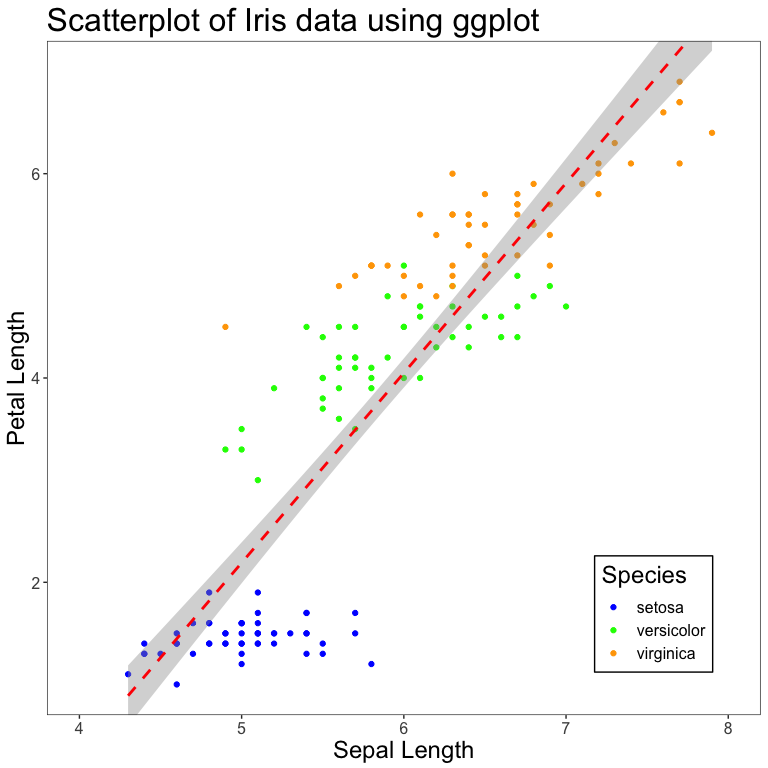
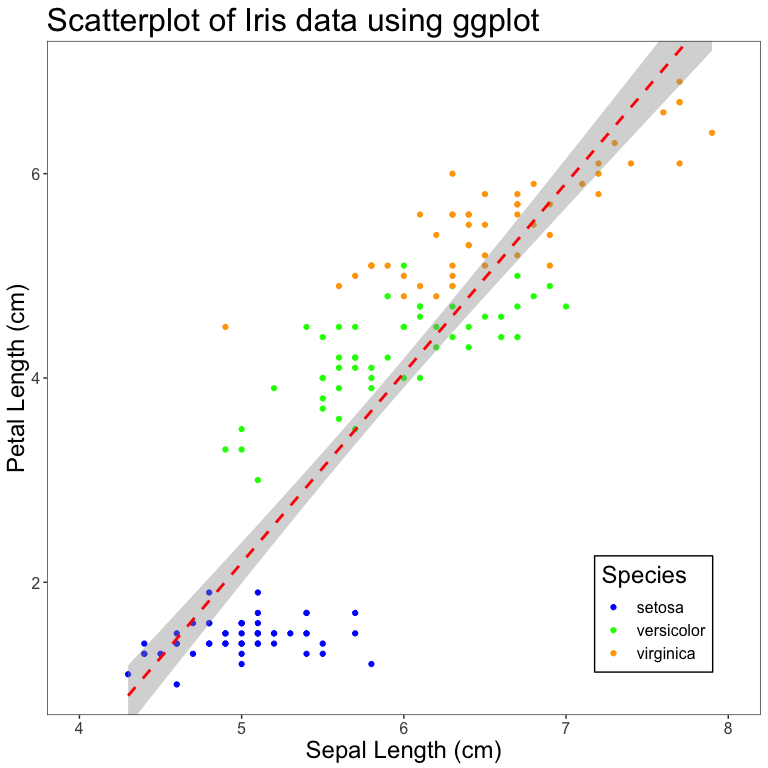
Broke up long comments onto separate lines to avoid them being cutoff when knit. Added units to axis labels on first 2 plots.

Changed region(s): [[0.4062, 0.9688, 0.6562, 1.0], [0.0, 0.375, 0.0312, 0.625]]

diff --git a/Rplotting12_26_2018.md b/Rplotting12_26_2018.md
@@ -17,13 +17,18 @@ The following examples can be adapted to create the majority of plots you will n
 ``` r
 install.packages("ggplot2") # Only need to install the package one time
 library(ggplot2) # Need to load the ggplot2 package every time you start R
-data("iris") # Iris is a famous dataset that is built into R and is commonly used as an example dataset
+data("iris") # Iris is a famous dataset that is built into R and is 
+# commonly used as an example dataset
 
-# We will also use data from UF professors Dr. Earnest and Dr. White who have made their data freely available in the package portalr
+# We will also use data from UF professors Dr. Earnest and Dr. White who 
+# have made their data freely available in the package portalr
 install.packages("portalr") # Only need to install the package once
 library(portalr)
-download_observations() # This downloads the portal data and stores it on your computer
-rodent=data.frame(abundance(shape="flat")) # Load the rodent abundance data. shape="flat" is only necessary in this instance to read in the data in a more useful format.
+download_observations() # This downloads the portal data and stores 
+# it on your computer
+rodent=data.frame(abundance(shape="flat")) # Load the rodent abundance 
+# data. shape="flat" is only necessary in this instance to read in the 
+# data in a more useful format.
 ```
 
 Scatterplots
@@ -34,13 +39,15 @@ Scatterplots are used to show data with a continuous y-variable and a continuous
 ### Scatter plots using base R
 
 ``` r
-pdf("BaseRScatterplot.pdf", height = 8, width = 8) # Save the plot you're about to create as a pdf and make it 8 inches tall by 8 inches wide. Inches are the default unit in base R
+pdf("BaseRScatterplot.pdf", height = 8, width = 8) # Save the plot you're 
+# about to create as a pdf and make it 8 inches tall by 8 inches wide. 
+# Inches are the default unit in base R
 ```
 
 ``` r
 plot(x=iris$Sepal.Length, y=iris$Petal.Length, # Define the data for the x and y axis
-     xlab = "Sepal Length", # Label the x-axis
-     ylab = "Petal Length ", # Label the y-axis
+     xlab = "Sepal Length (cm)", # Label the x-axis
+     ylab = "Petal Length (cm)", # Label the y-axis
      main = "Scatterplot of Iris data using base R", # Give the figure a title
      xlim = c(4, 8.0), # Set the minimum and maximum values for the x-axis
      ylim = c(1, 7), # Set the minimum and maximum values for the y-axis
@@ -48,14 +55,21 @@ plot(x=iris$Sepal.Length, y=iris$Petal.Length, # Define the data for the x and y
      cex = 1.2, # Change the size of the points
      pch = 19) # Change the shape of the points
 
-# Creating a 95% confidence requires calculating the linear model between the x and y variables and making predictions from the model.
-iris_mod=lm(Petal.Length~Sepal.Length,data = iris) # Calculate the linear relationship (a linear model) between the x and y variables
+# Creating a 95% confidence requires calculating the linear model between
+# the x and y variables and making predictions from the model.
+iris_mod=lm(Petal.Length~Sepal.Length,data = iris) # Calculate the linear
+# relationship (a linear model) between the x and y variables
 
-predicted_x=seq(min(iris$Sepal.Length),max(iris$Sepal.Length),by=0.5) # Create new values for the x axis that range from the minimum value of x to the maximum value of x in increments of 0.5
+predicted_x=seq(min(iris$Sepal.Length),max(iris$Sepal.Length),by=0.5) 
+# Create new values for the x axis that range from the minimum value of x to 
+# the maximum value of x in increments of 0.5
 
-pred_iris_mod=predict(iris_mod, # Make predictions using the linear model for the new values of x
-                      newdata = data.frame(Sepal.Length=predicted_x), # These are the x-values that the predictions will be made from
-                      interval = "confidence", level = 0.95) # Calculate the 95% confidence interval
+pred_iris_mod=predict(iris_mod, # Make predictions using the linear model
+                      # for the new values of x
+                      newdata = data.frame(Sepal.Length=predicted_x),
+                      # These are the x-values that the predictions will be made from
+                      interval = "confidence", level = 0.95) 
+                      # Calculate the 95% confidence interval
 
 
 abline(iris_mod, # Plot the line from the linear model 
@@ -68,7 +82,8 @@ lines(predicted_x,pred_iris_mod[,3]) # Plot the line for the upper boundary of t
 
 
 # Create a legend
-legend(x = 7.2, y = 2.2,# Define the x and y coordinates where the legend will be placed. These numbers correspond with the scale of the axis. 
+legend(x = 7.2, y = 2.2,# Define the x and y coordinates where the legend will be placed. 
+       # These numbers correspond with the scale of the axis. 
        legend = levels(iris$Species), # Define the labels for the legend
        col=c("blue","orange","green"), # Give the legend colors for the points
        title = "Species", # Give the legend a title
@@ -85,24 +100,36 @@ dev.off() # Tell R that the plot is complete and the pdf should be saved
 
 ``` r
 ggplot(data = iris, # Define where the data comes from
-       aes(x=Sepal.Length, y=Petal.Length, # Define the aesthetic, which is the data for the x and y axes
+       aes(x=Sepal.Length, y=Petal.Length, # Define the aesthetic, which is the data 
+           # for the x and y axes
            color=Species))+ # Also in the aesthetic, define the variable to be colored
   geom_point()+ # Display the data as points
-  geom_smooth(method = lm, fullrange = T, se = T, level = 0.95, color="red", linetype="dashed")+ # Calculate and draw the line showing the linear relationship between all of the points. By setting se = T, ggplot draws the confidence interval around the line, and setting level=0.95 makes it the 95% CI
+  geom_smooth(method = lm, fullrange = T, se = T, level = 0.95, color="red", linetype="dashed")+ 
+  # Calculate and draw the line showing the linear relationship between all of the points. 
+  # By setting se = T, ggplot draws the confidence interval around the line, 
+  # and setting level=0.95 makes it the 95% CI
   theme_bw()+ # Get rid of the gray background
-  xlab("Sepal Length")+ # Label the x-axis
-  ylab("Petal Length")+ # Label the y-axis
+  xlab("Sepal Length (cm)")+ # Label the x-axis
+  ylab("Petal Length (cm)")+ # Label the y-axis
   ggtitle("Scatterplot of Iris data using ggplot")+ # Give the plot a title
-  # labs(x="Sepal Length", y="Petal Length", main="Scatterplot of Iris data using ggplot") # Could instead use this code to label axes and title
+  # labs(x="Sepal Length", y="Petal Length", main="Scatterplot of Iris data using ggplot") 
+  # Could instead use this to label axes/title
   scale_color_manual(values = c("blue","green","orange"))+ # Set the colors of the different groups
   coord_cartesian(xlim = c(4,8), ylim=c(1,7))+ # Set the x and y axis limits
-  theme(axis.title = element_text(size = 18), # Change the size of the text for the axis label (sepal length and petal width)
-        axis.text = element_text(size = 12), # Change the text size of the numbers on the x and y axis
+  theme(axis.title = element_text(size = 18), # Change the text size of 
+        # the axis labels (sepal length and petal width)
+        axis.text = element_text(size = 12), # Change the text size of the numbers on the 
+        # x and y axis
         title = element_text(size = 20), # Change the text size of the title
         legend.title = element_text(size = 18), # Change the size of the legend heading
         legend.text = element_text(size = 12), # Change the size of the text in the legend
-        legend.position = c(.85, .15), # Change legend position. NOTE: Unlike base R, the position of the legend in ggplot is set as a percentage of the x and y axes between 0-1. So, to put the legend in the very middle, the position would be c(0.5, 0.5). To put it near the bottom right, it would be c(0.75, 0.1). 
-        legend.background  = element_rect(colour = "black"), # Make a black rectangle around the legend
+        legend.position = c(.85, .15), # Change legend position. 
+        # NOTE: Unlike base R, the position of the legend in ggplot is set as a percentage of the 
+        # x and y axes between 0-1. So, to put the legend in the very middle,
+        # the position would be c(0.5, 0.5). To put it near the bottom right, 
+        # it would be c(0.75, 0.1), etc.
+        legend.background  = element_rect(colour = "black"), # Make a black rectangle 
+        # around the legend
         panel.grid.major = element_blank(), # Remove the major grid lines in the background 
         panel.grid.minor = element_blank()) # Remove the minor grid lines in the background
 ```
@@ -139,7 +166,9 @@ hist(iris$Petal.Length, # Create the histogram and define the variable to be bin
 ### Histogram using ggplot
 
 ``` r
-ggplot(data=iris,aes(x=Petal.Length))+ # Define the data and aesthetic. Because a histogram just shows the distribution of a variable, only need to define the x-axis variable
+ggplot(data=iris,aes(x=Petal.Length))+ # Define the data and aesthetic. 
+  # Because a histogram just shows the distribution of a variable, only need to define the 
+  # x-axis variable
   geom_histogram(binwidth = 0.5, # Define the size of the bins that you want your data 
                  boundary = 1, # Set the minimum value of the first bin
                  col="black", # Make the outside of each bar black
@@ -150,8 +179,10 @@ ggplot(data=iris,aes(x=Petal.Length))+ # Define the data and aesthetic. Because 
   coord_cartesian(xlim = c(0,7), ylim = c(0,40))+ # Set the range of both axes
   ggtitle("Histogram of Iris data using ggplot")+ # Give the plot a title
   theme(title = element_text(size=16), # Change the text size of the title
-        axis.title = element_text(size = 16), # Change the size of the text for the axis label (sepal length and petal width)
-        axis.text = element_text(size = 12), # Change the text size of the numbers on the x and y axis
+        axis.title = element_text(size = 16), # Change the text size of 
+        # the axis labels (sepal length and petal width)
+        axis.text = element_text(size = 12), # Change the text size of the numbers on 
+        # the x and y axis
         panel.grid.major = element_blank(), # Remove the major grid lines in the background 
         panel.grid.minor = element_blank()) # Remove the minor grid lines in the background
 ```
@@ -184,15 +215,18 @@ plot(rodent_abundance_sub$species, # Define the data for the plot
 
 ``` r
 ggplot(data=rodent_abundance_sub,aes(x=species))+ # Define the data for the plot
-  stat_count(col="black", fill="white")+ # Use stat_count to create the bar plot. Make the outside (col) of each bar black and the inside (fill) of each bar white
+  stat_count(col="black", fill="white")+ # Use stat_count to create the bar plot. 
+  # Make the outside (col) of each bar black and the inside (fill) of each bar white
   theme_bw()+ # Get rid of the gray background in the plot
   xlab("Species")+ # Label the x-axis 
   ylab("Frequency of Observations >0")+ # Label the y-axis
   ggtitle("Bar plot of Portal data using ggplot")+ # Give the plot a title
   theme(panel.grid.major = element_blank(), # Get rid of the major grid lines
         panel.grid.minor = element_blank(), # Get rid of the minor grid lines
-        axis.title = element_text(size = 16), # Change the size of the text for the axis label (sepal length and petal width)
-        axis.text = element_text(size = 12), # Change the text size of the numbers on the x and y axis
+        axis.title = element_text(size = 16), # Change the text size of 
+        # the axis labels (sepal length and petal width)
+        axis.text = element_text(size = 12), # Change the text size of the numbers on 
+        # the x and y axis
         title = element_text(size = 16)) # Change the text size of the title
 ```
 
@@ -208,7 +242,8 @@ A boxplot describes the data in quartiles; the line within the box is the median
 ### Boxplots using base R
 
 ``` r
-plot(x=rodent_abundance_sub$species, y=rodent_abundance_sub$abundance, # Define the data to plot on the x and y axes
+plot(x=rodent_abundance_sub$species, y=rodent_abundance_sub$abundance, # Define the data to 
+# plot on the x and y axes
      outline = F, # Setting outline = F prevents the outliers from appearing
      ylim = c(0,125), # Set the y-axis range
      xlab = "Species", # Label the x-axis
@@ -221,15 +256,19 @@ plot(x=rodent_abundance_sub$species, y=rodent_abundance_sub$abundance, # Define 
 ### Boxplots using ggplot
 
 ``` r
-ggplot(data=rodent_abundance_sub, aes(x=species, y=abundance))+ # Define where the data come from and the aesthetic (x and y values)
-  geom_boxplot(outlier.shape = NA)+ # Make the plot a box plot, and remove the outliers by setting their shape to NA
+ggplot(data=rodent_abundance_sub, aes(x=species, y=abundance))+ # Define where the data 
+  # come from and the aesthetic (x and y values)
+  geom_boxplot(outlier.shape = NA)+ # Make the plot a box plot, and remove the outliers by setting 
+  # their shape to NA
   theme_bw()+ # Get rid of the gray background
   xlab("Species")+ # Label the x-axis
   ylab("Abundance")+ # Label the y-axis
   ggtitle("Boxplot of Portal data using ggplot")+ # Give the plot a title
   coord_cartesian(ylim=c(0,125))+ # Define y-axis range
-  theme(axis.title = element_text(size = 16), # Change the size of the text for the axis label (sepal length and petal width)
-        axis.text = element_text(size = 12), # Change the text size of the numbers on the x and y axis
+  theme(axis.title = element_text(size = 16), # Change the text size of 
+        # the axis labels (sepal length and petal width)
+        axis.text = element_text(size = 12), # Change the text size of the numbers on 
+        # the x and y axis
         title = element_text(size=16), # Change the text size of the title
         panel.grid.major = element_blank(), # Remove the major grid lines in the background 
         panel.grid.minor = element_blank()) # Remove the minor grid lines in the background
@@ -242,27 +281,38 @@ ggplot(data=rodent_abundance_sub, aes(x=species, y=abundance))+ # Define where t
 We continue to use the rodent data, but to make our figures simpler, we will only use data from the first 50 time periods
 
 ``` r
-rodent_period_sub=subset(rodent_abundance_sub,rodent_abundance_sub$period<50) # Only use data from first 50 time periods. First time period begins at 27, so only return 23 time periods 
+rodent_period_sub=subset(rodent_abundance_sub,rodent_abundance_sub$period<50) # Only use data 
+# from first 50 time periods. The first time period is 27, so only return 23 time periods 
 
-# To plot points and confidence intervals, we need to use the function aggregate to perform a function on all rows that have the same time period
-rodent_agg=aggregate(rodent_period_sub$abundance, # This is the column we want to perform calculations on
-                     by=list(rodent_period_sub$period), # This is the column we use to identify which points are related (i.e., all rows that have the same value for period will be grouped together for analysis)
-                       function(x) c(mean=mean(x), # Create a function that calculates the mean and the standard error for all points with a shared period
-                                     se=sd(x)/sqrt(length(x))))
+# To plot points and confidence intervals, we need to use the function aggregate 
+# to perform a function on all rows that have the same time period
+rodent_agg=aggregate(rodent_period_sub$abundance, # This is the column we perform calculations on
+                     by=list(rodent_period_sub$period), # This is the column we use to identify 
+                     # which points are related (i.e., all rows that have the same value for 
+                     # period will be grouped together for analysis)
+                       function(x) c(mean=mean(x), # Create a function that calculates the mean... 
+                                     se=sd(x)/sqrt(length(x)))) # ...and the standard error 
+                                     # for all points with a shared period
 
-# Aggregate returns the data in a strange form, so turn it back into a dataframe by defining the columns that we want
+# Aggregate returns the data in a strange form, so turn it back into a dataframe 
+# by defining the columns that we want
 rodent_means=data.frame(period=rodent_agg$Group.1,
                                abundance=rodent_agg$x[,1],
                                se=rodent_agg$x[,2])
 
 # Calculate the 95% CI (spread of the data) according to the formula mean ± 1.96*se
-rodent_means$lower_CI=rodent_means$abundance-rodent_means$se*1.96 # Make a column for the lower boundary of the 95% CI
-rodent_means$upper_CI=rodent_means$abundance+rodent_means$se*1.96 # Make a column for the upper boundary of the 95% CI
+rodent_means$lower_CI=rodent_means$abundance-rodent_means$se*1.96 # Make a column for the lower 
+# boundary of the 95% CI
+rodent_means$upper_CI=rodent_means$abundance+rodent_means$se*1.96 # Make a column for the upper 
+# boundary of the 95% CI
 
-# Create a blank plot that has all of the attributes of a normal plot (axis names and ranges, title, etc.) but does not display the data
+# Create a blank plot that has all of the attributes of a normal plot (axis names and ranges, title, etc.) 
+# but does not display the data
 plot(x = rodent_means$period,
      y = rodent_means$abundance, 
-     type = "n", # Make a blank plot so we can add the error bars, lines, and points in the order that we want. Could also set type = "b" for both points and lines, but this is less flexible to make the figure look how we want
+     type = "n", # Make a blank plot so we can add the error bars, lines, and points in the order 
+     # that we want. Could also set type = "b" for both points and lines, but 
+     # this is less flexible to make the figure look how we want
      xlim = c(25, 50), # Set the x-axis range
      ylim = c(0, 20), # Set the y-axis range
      xlab = "Time Period", # Give the x-axis a name
@@ -271,8 +321,12 @@ plot(x = rodent_means$period,
 
 # R hack: use arrows to plot the error bars (95% CIs that we calculated above) 
 arrows(rodent_means$period, rodent_means$lower_CI, # The start point of the arrow (x0, y0)
-       rodent_means$period, rodent_means$upper_CI, # The end point of the arrow (x1, y1). In this case the starting and ending x are the same because we only want a vertical line (change in y) on each point.
-       length=0.05, angle=90, code=3) # Set the length of the arrow head (.05 cm), set the angle of the arrow (90 degrees is a flat line), and the code to 3, which makes an arrowhead on each end of the line
+       rodent_means$period, rodent_means$upper_CI, # The end point of the arrow (x1, y1). 
+       # In this case the starting and ending x are the same because we only want a 
+       # vertical line (change in y) on each point.
+       length=0.05, angle=90, code=3) # Set the length of the arrow head (.05 cm),
+       # set the angle of the arrow (90 degrees is a flat line), 
+       # and the code to 3, which makes an arrowhead on each end of the line
 
 # Because this is a time series, we can show the relationship between points with lines
 lines(x = rodent_means$period, # x-values for the lines
@@ -297,14 +351,16 @@ points(x = rodent_means$period, # x-values for the points
 ggplot(data = rodent_means, aes(x=period, y=abundance))+ # Define the data and mapping for the plot
   geom_point(shape=21)+ # Display the data as points and make the shape an open circle
   geom_line()+ # Also display the data as lines
-  geom_errorbar(aes(ymin=lower_CI,ymax=upper_CI))+ # Display the error bars by defining the minimum and maximum y-values of our CI. You can also calculate these directly in ggplot.
+  geom_errorbar(aes(ymin=lower_CI,ymax=upper_CI))+ # Display the error bars by defining the minimum 
+  # and maximum y-values of our CI. You can also calculate these directly in ggplot.
   theme_bw()+ # Get rid of the gray background
   xlab("Time Period")+ # Label the x-axis
   ylab("Rodent Abundance")+ # Label the y-axis
   ggtitle("Point plot of Portal data using ggplot")+ # Give the plot a title
   coord_cartesian(xlim = c(25,50), ylim=c(0,20))+ # Define x and y-axis range
   theme(axis.title = element_text(size = 18), # Change the size of the text for the axis labels
-        axis.text = element_text(size = 12), # Change the text size of the numbers on the x and y axis
+        axis.text = element_text(size = 12), # Change the text size of the numbers on 
+        # the x and y axis
         title = element_text(size=16), # Change the text size of the title
         panel.grid.major = element_blank(), # Remove the major grid lines in the background 
         panel.grid.minor = element_blank()) # Remove the minor grid lines in the background
@@ -324,11 +380,12 @@ Be **VERY** careful when you make multiple plots; it is easy to mislead someone 
 We display multiple plots in base R by changing the graphical parameters using the command par
 
 ``` r
-par(mfrow=c(1,3)) # This creates 1 row and 3 columns of plots. par(mfrow=c(2,2)) would make 4 plots in 2 rows and 2 columns; par(mfrow=c(2,3)) would create 6 plots in 2 rows and 3 columns, etc.
+par(mfrow=c(1,3)) # This creates 1 row and 3 columns of plots. par(mfrow=c(2,2)) would make 4 plots 
+# in 2 rows and 2 columns; par(mfrow=c(2,3)) would create 6 plots in 2 rows and 3 columns, etc.
 
 # Iris histograms separated by species
 
-hist(iris[iris$Species=="setosa",]$Petal.Length, # Subset to only the rows where species is setosa
+hist(iris[iris$Species=="setosa",]$Petal.Length, # Subset to rows where species is setosa
      breaks = seq(1,2, by = 0.15),
      ylim = c(0, 30),
      xlim = c(1,2),
@@ -336,7 +393,7 @@ hist(iris[iris$Species=="setosa",]$Petal.Length, # Subset to only the rows where
      ylab = "Frequency of Observations",
      main = "Histogram of setosa Petal Length")
 
-hist(iris[iris$Species=="versicolor",]$Petal.Length, # Subset to only the rows where species is versicolor
+hist(iris[iris$Species=="versicolor",]$Petal.Length, # Subset to rows where species is versicolor
      breaks = seq(2.5,6, by = 0.5),
      ylim = c(0, 25),
      xlim = c(2.5,5.5),
@@ -344,7 +401,7 @@ hist(iris[iris$Species=="versicolor",]$Petal.Length, # Subset to only the rows w
      ylab = "Frequency of Observations",
      main = "Histogram of versicolor Petal Length")
 
-hist(iris[iris$Species=="virginica",]$Petal.Length, # Subset to only the rows where species is virginica
+hist(iris[iris$Species=="virginica",]$Petal.Length, # Subset to rows where species is virginica
      breaks = seq(4.5,7, by = 0.5),
      ylim = c(0, 20),
      xlim = c(4.5,7),
@@ -368,8 +425,9 @@ ggplot(data=iris,aes(x=Petal.Length))+
   xlab("Petal Length (cm)")+ 
   ylab("Frequency of Observations")+ 
   ggtitle("Histogram of Iris data using ggplot")+ 
-  facet_grid(.~Species, # Make a different facet (window) for the unique values in the column Species
-             scales = "free")+ # This allows ggplot to scale each axis separately. Use scales = "fixed" to make all axes the same. 
+  facet_grid(.~Species, # Make a different facet (window) for unique values in the column Species
+             scales = "free")+ # This allows ggplot to scale each axis separately. 
+             # Use scales = "fixed" to make all axes the same. 
   theme(title = element_text(size=16), 
         panel.grid.major = element_blank(), 
         panel.grid.minor = element_blank(),
